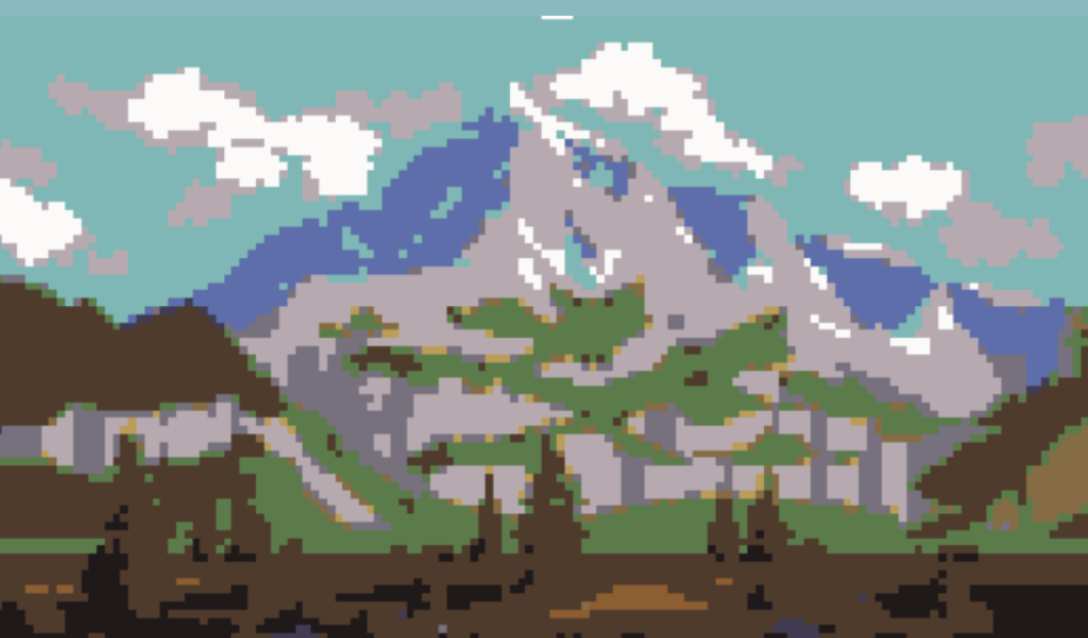
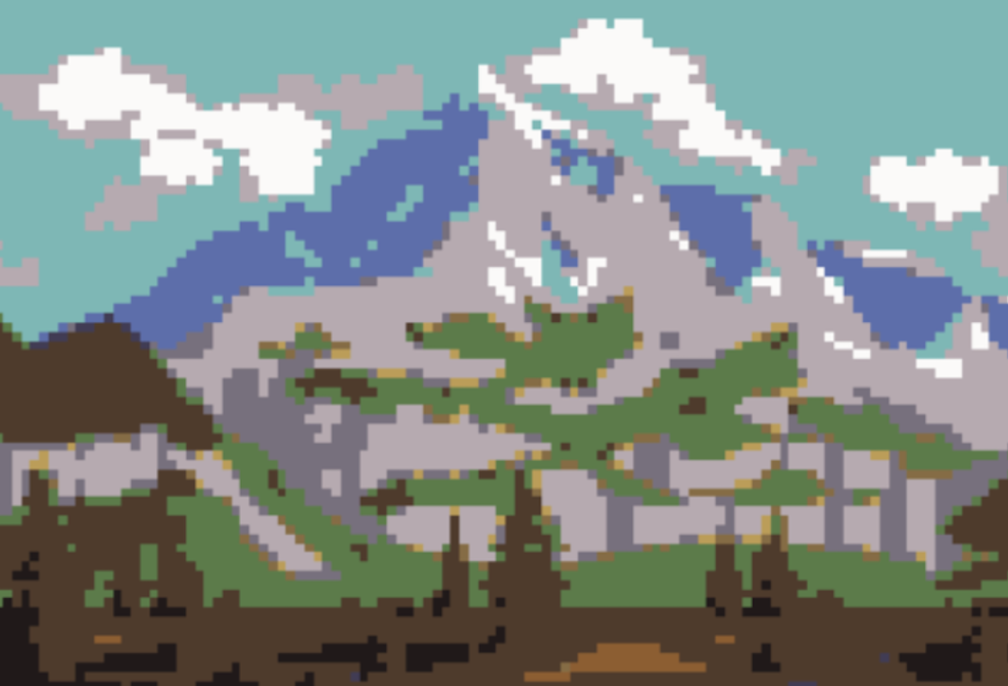
updated title screen

diff --git a/src/Maps/TitleScreenMap.java b/src/Maps/TitleScreenMap.java
@@ -22,7 +22,7 @@ public class TitleScreenMap extends Map {
         cat.setScale(2);
         cat.setImageEffect(ImageEffect.FLIP_HORIZONTAL);
         cat.setLocation(catLocation.x, catLocation.y); 
-        back = new Sprite(ImageLoader.loadSubImage("Title.png", Colors.MAGENTA, 200,0, 800, 600));
+        back = new Sprite(ImageLoader.loadSubImage("title.png", Colors.MAGENTA, 0,50, 800, 600));
         back.setScale(1);
         back.setImageEffect(ImageEffect.FLIP_HORIZONTAL);
         back.setLocation(0, 0);  
